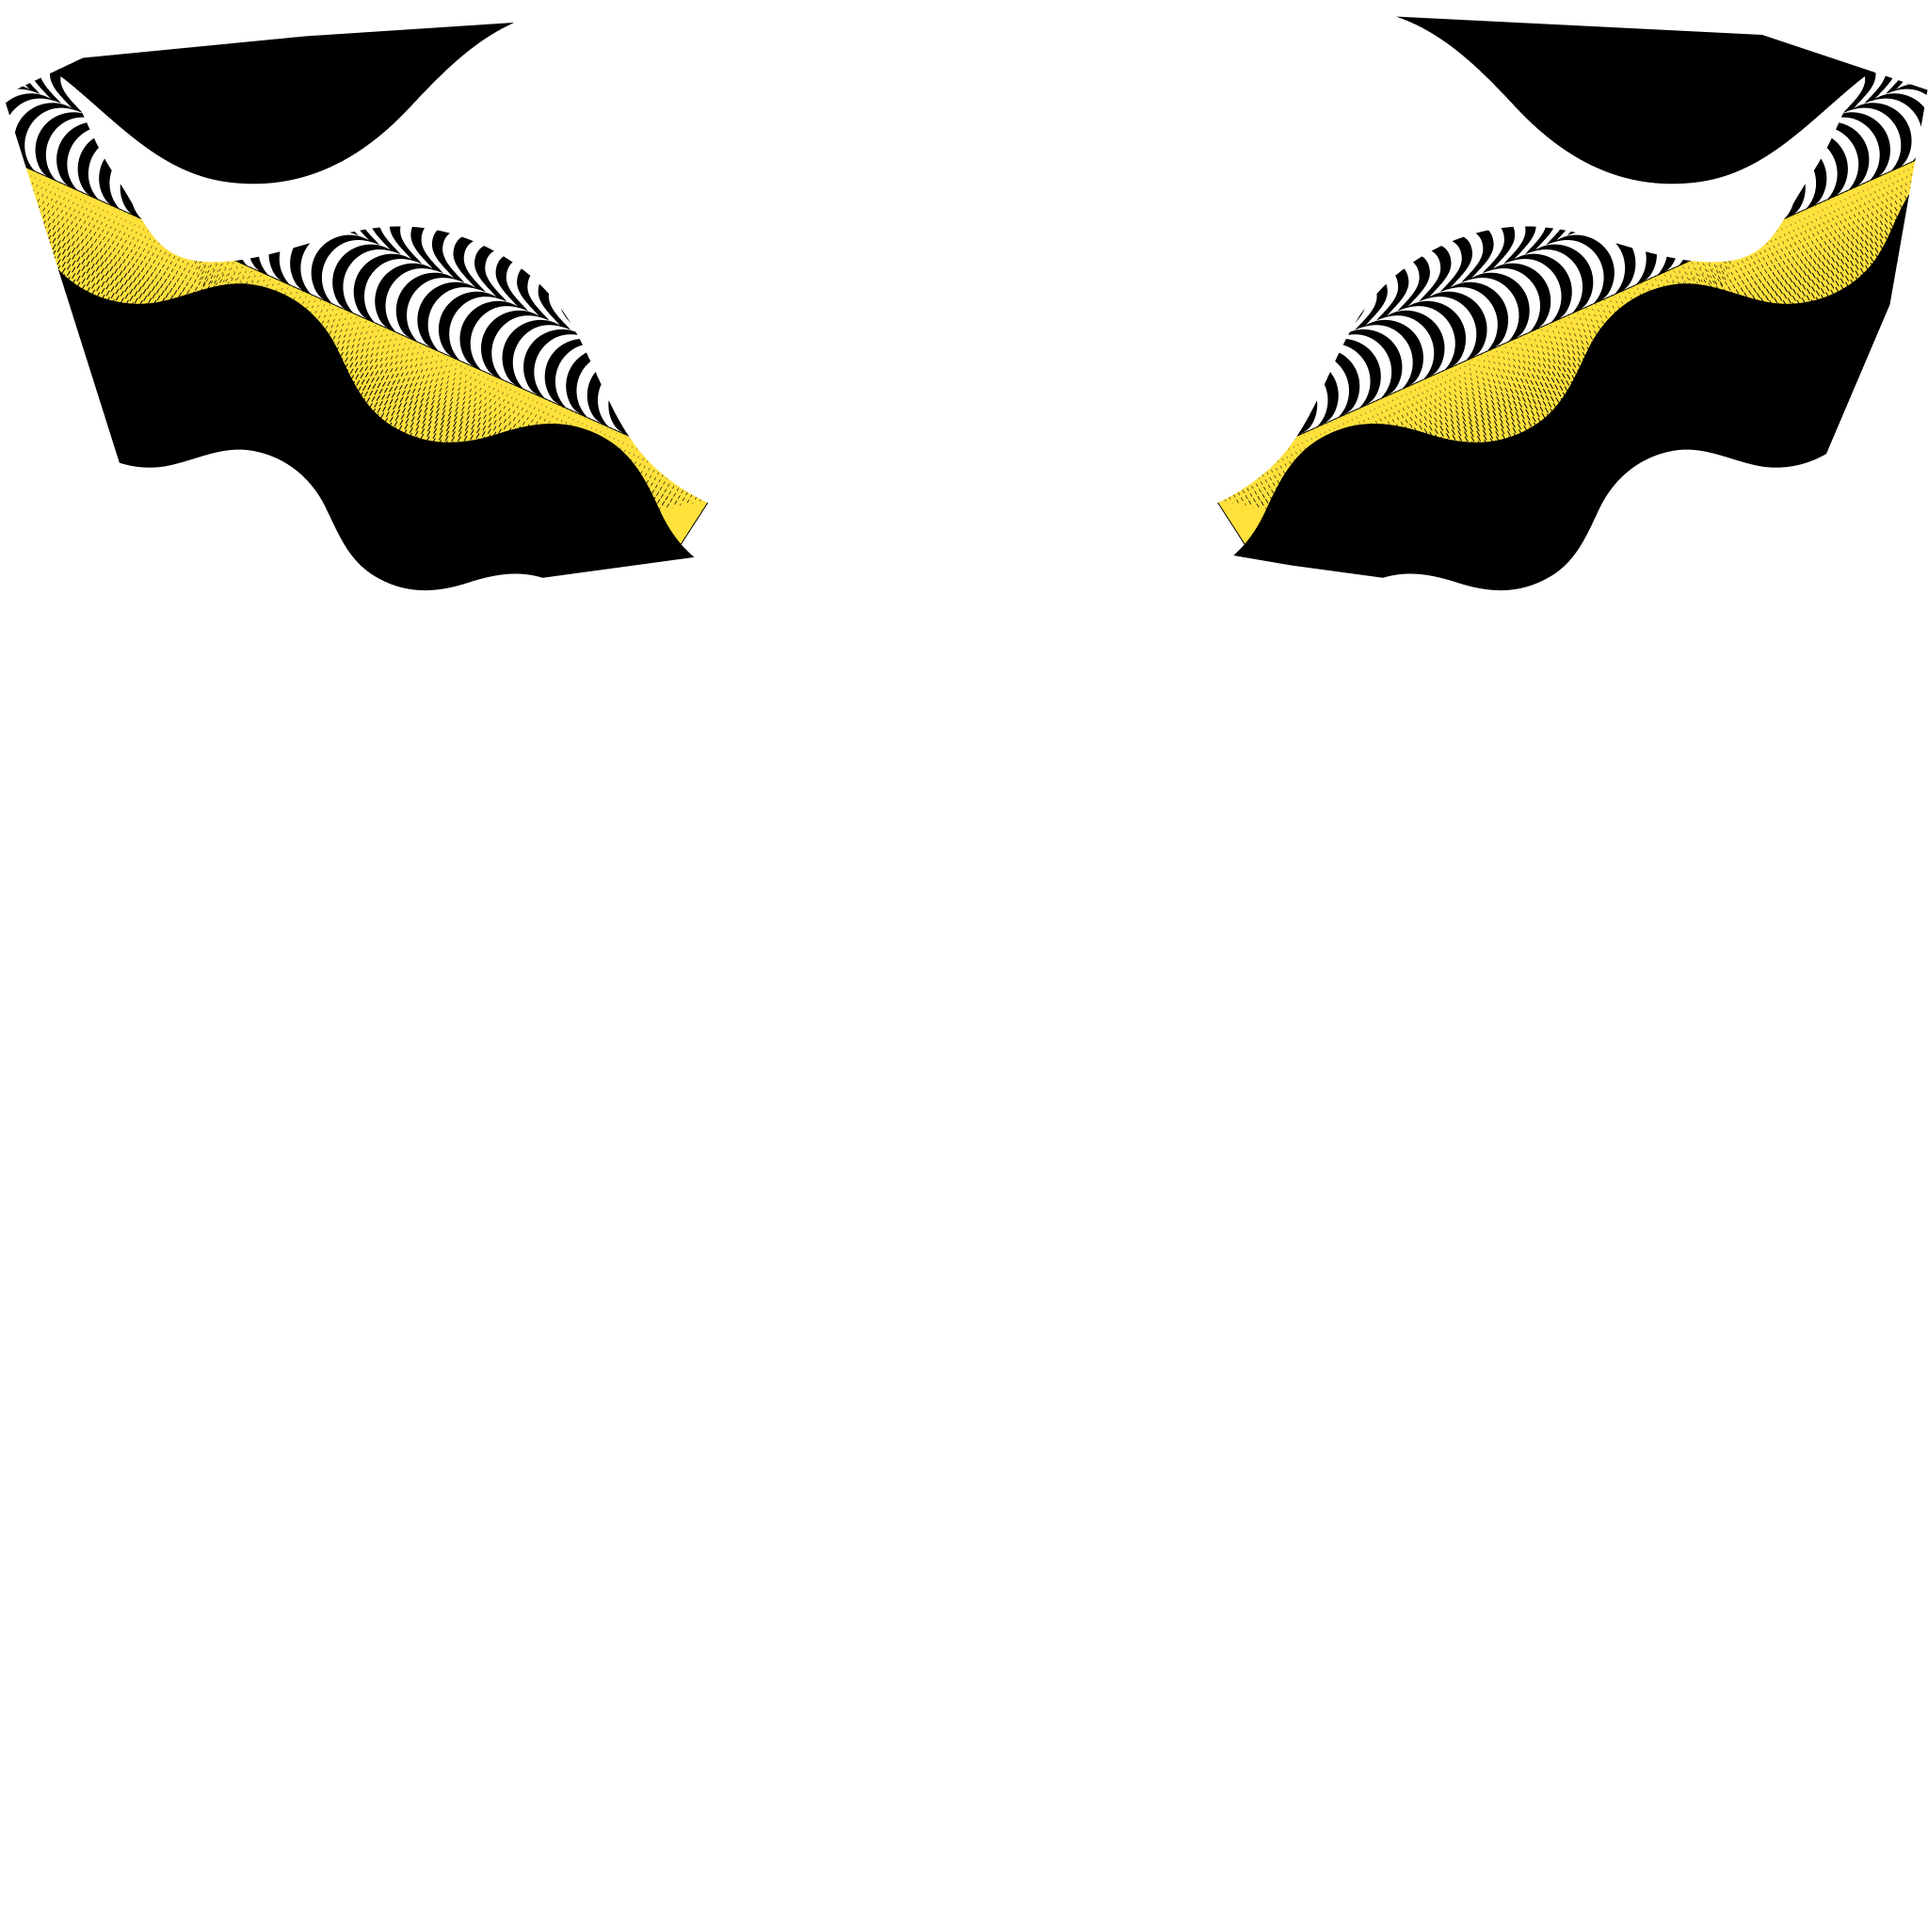
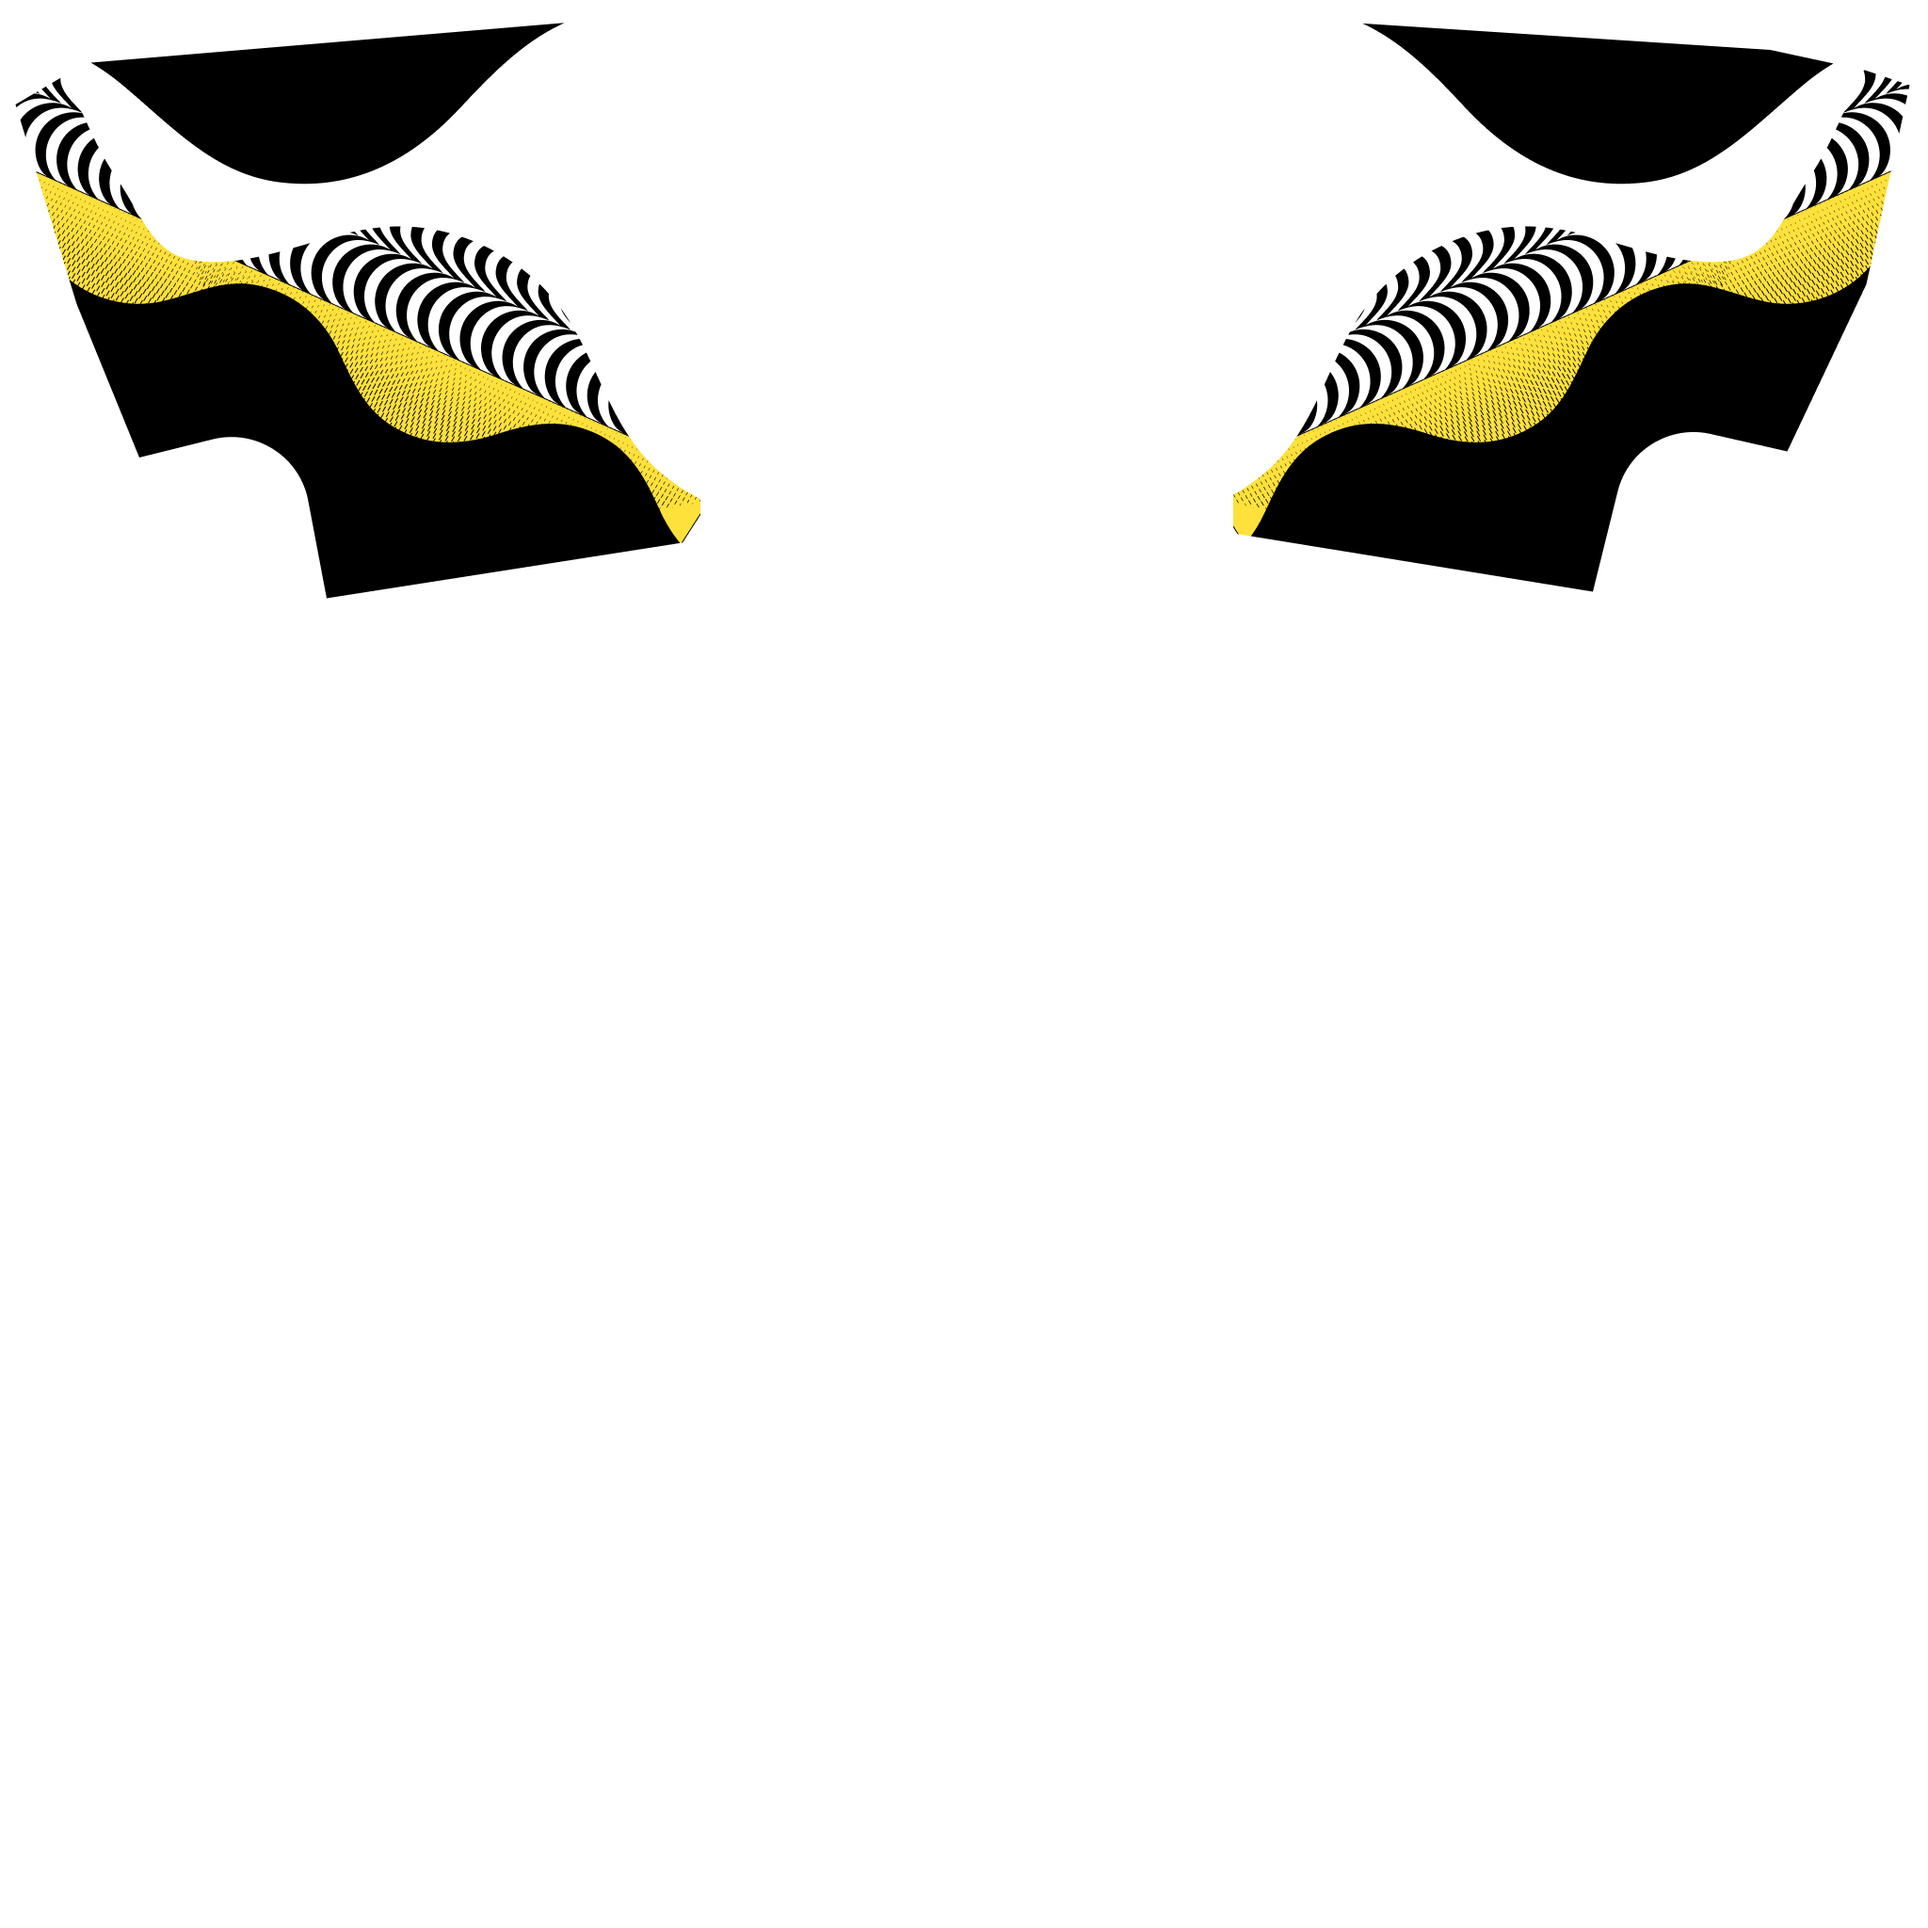
new wraps

diff --git a/src/components/Customizer.js b/src/components/Customizer.js
@@ -8,24 +8,54 @@ class Customizer extends React.Component {
             binWraps: [
                 {
                     img: require('../assets/3d/Serve/wraps/bin_1.png').default,
-                    name: 'bin_1',
+                    name: 'Bin 1',
                     selected: true,
                 },
                 {
                     img: require('../assets/3d/Serve/wraps/bin_2.png').default,
-                    name: 'bin_2',
+                    name: 'Bin 2',
+                    selected: false,
+                },
+                {
+                    img: require('../assets/3d/Serve/wraps/bin_3.png').default,
+                    name: 'Bin 3',
+                    selected: false,
+                },
+                {
+                    img: require('../assets/3d/Serve/wraps/bin_4.png').default,
+                    name: 'Bin 4',
+                    selected: false,
+                },
+                {
+                    img: require('../assets/3d/Serve/wraps/bin_5.png').default,
+                    name: 'Bin 5',
                     selected: false,
                 },
             ],
             lidWraps: [
                 {
                     img: require('../assets/3d/Serve/wraps/lid_1.png').default,
-                    name: 'lid_1',
+                    name: 'Lid 1',
                     selected: true,
                 },
                 {
                     img: require('../assets/3d/Serve/wraps/lid_2.png').default,
-                    name: 'lid_2',
+                    name: 'Lid 2',
+                    selected: false,
+                },
+                {
+                    img: require('../assets/3d/Serve/wraps/lid_3.png').default,
+                    name: 'Lid 3',
+                    selected: false,
+                },
+                {
+                    img: require('../assets/3d/Serve/wraps/lid_4.png').default,
+                    name: 'Lid 4',
+                    selected: false,
+                },
+                {
+                    img: require('../assets/3d/Serve/wraps/lid_5.png').default,
+                    name: 'Lid 5',
                     selected: false,
                 },
             ],
